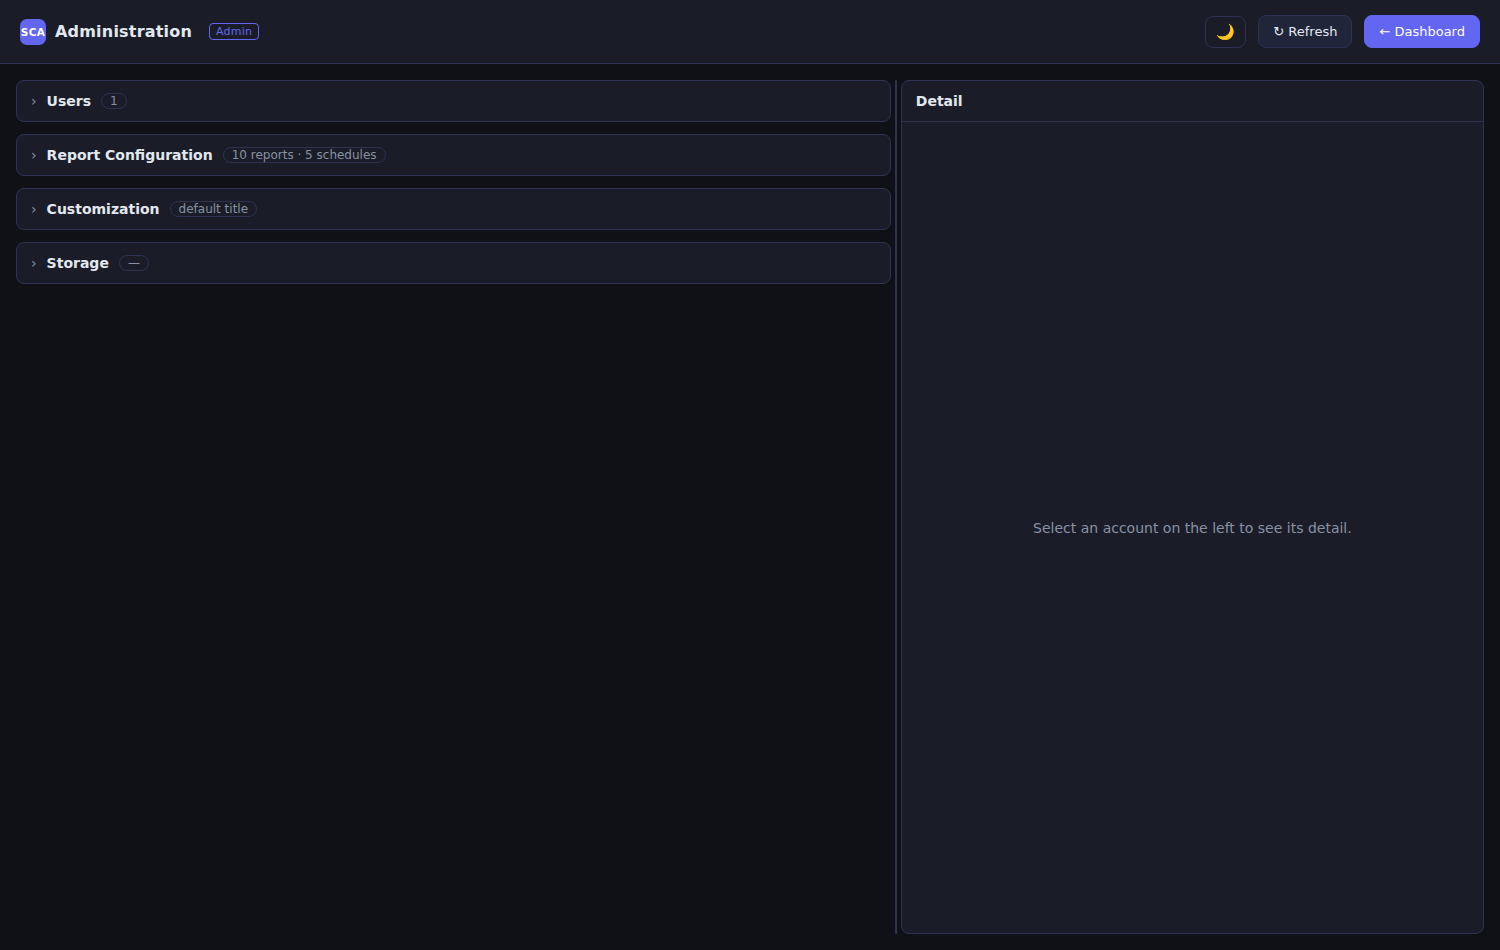
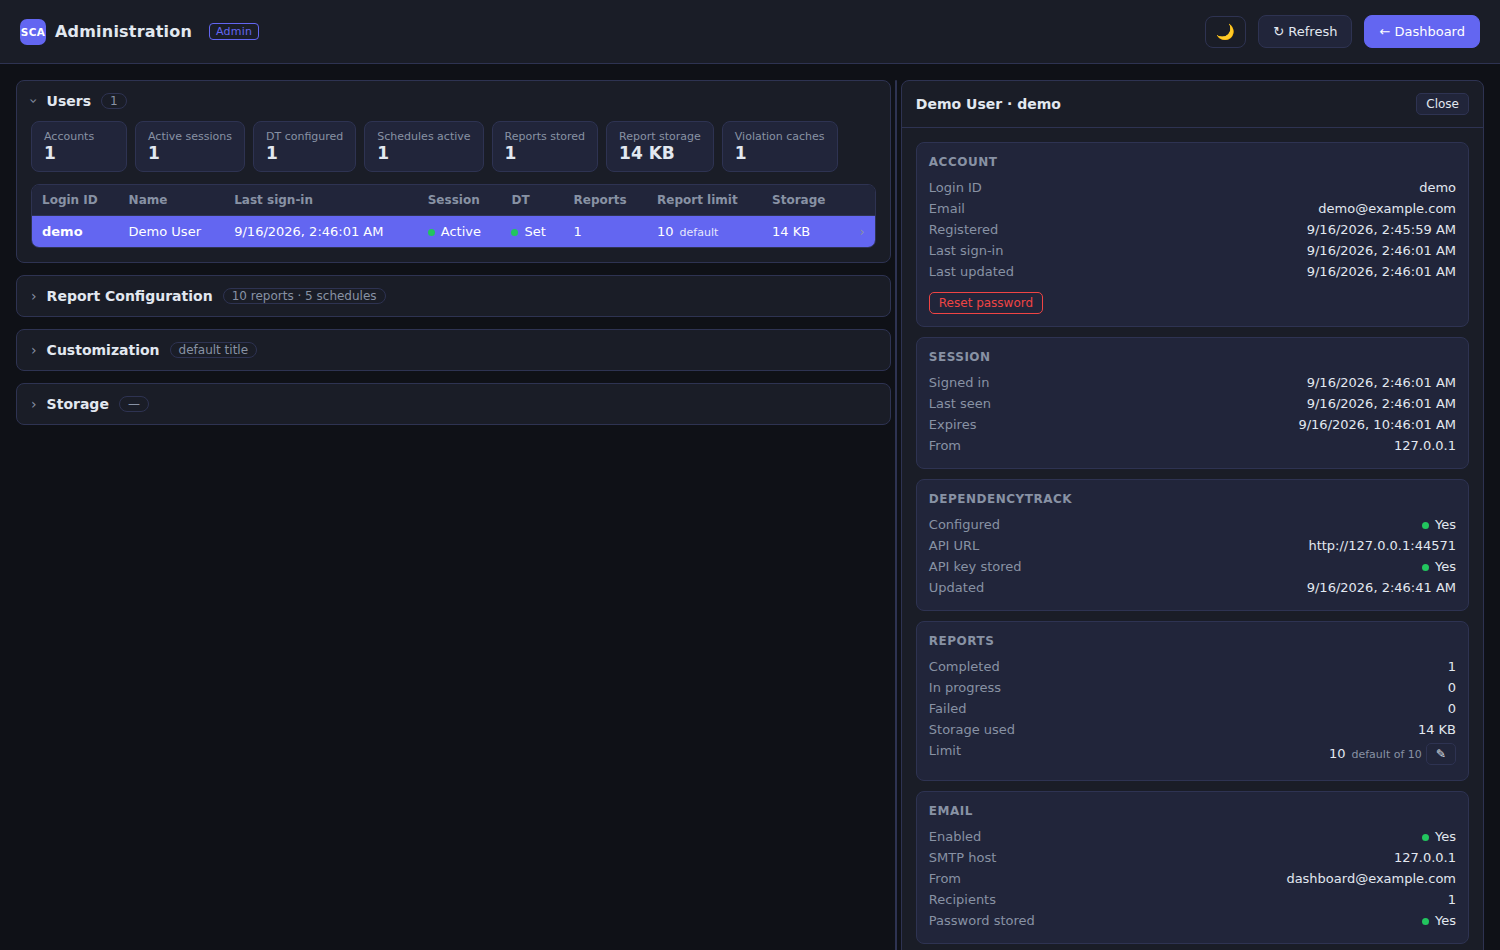
Cover administration in the guide, from both sides of every setting
The administration section was a six-row table and a caution about
password resets. It named what an administrator can change and said
almost nothing about what changing it does — which is the half a reader
actually needs, because an administrator and a user are two different
people and a setting documented from one side leaves both guessing.

Every group of settings now ends with "How this reaches the user": the
report and schedule limits and the exact wording the user sees in their
own Settings, the per-account override and why leaving a field blank is
different from typing the default's current value, what a password reset
does to the session the person is sitting in front of, and that a title
or background change lands on their next page load with no sign-out.

Four screenshots to go with it. The old administration.png photographed
four collapsed bars, which showed the screen exists and nothing else; the
tool now opens each section for its own shot and selects an account so
the detail pane is populated. The reset-password and account-limit
dialogs are captured too — both state their own consequences on screen,
which is worth showing rather than paraphrasing.

Two guards. The administration table is tied to routes/admin.js by count,
so §7.6's closed list of six cannot gain a seventh entry without the
guide gaining a row: a capability that exists in the routes and nowhere
in the guide is one users have no way to ask for. The second requires
[…]

diff --git a/violation-cache/dashboard.test.js b/violation-cache/dashboard.test.js
@@ -5641,6 +5641,43 @@ describe('the documentation still describes this application', () => {
       'the first image should follow the first step, not precede the guide');
   });
 
+  test('the guide documents every administration write, and none it cannot do', () => {
+    // §7.6 is a closed allow-list, and adding a seventh entry is supposed to be
+    // a decision somebody reads. This makes it a decision somebody also has to
+    // *document*: an administrator capability that exists in routes/admin.js
+    // and nowhere in the guide is one users have no way to ask for.
+    const adminRoutes = fs.readFileSync(path.join(__dirname, 'routes', 'admin.js'), 'utf8');
+    const writes = [...adminRoutes.matchAll(/method === '(?:PUT|POST|DELETE)'/g)].length;
+    const section = GUIDE_MD.slice(GUIDE_MD.indexOf('## 11.'), GUIDE_MD.indexOf('## 12.'));
+    assert.ok(section.length > 0, 'the guide has no administration section');
+
+    // The numbered table in the guide is the user-facing copy of that list.
+    const rows = [...section.matchAll(/^\| \d+ \| /gm)].length;
+    assert.equal(rows, writes,
+      `routes/admin.js handles ${writes} writes; the guide's table lists ${rows}`);
+
+    // And each one has to be explained, not merely listed.
+    for (const topic of ['Report Configuration', 'Reset password', 'Customization',
+                         'sign-in background', 'application title']) {
+      assert.match(section, new RegExp(topic.replace(/ /g, '\\s+'), 'i'),
+        `the administration section never covers: ${topic}`);
+    }
+  });
+
+  test('the guide says what an administration change does to a user', () => {
+    // The question this section is actually asked. A setting documented only
+    // from the administrator's side leaves both sides guessing what happened.
+    const section = GUIDE_MD.slice(GUIDE_MD.indexOf('## 11.'), GUIDE_MD.indexOf('## 12.'));
+    const reaches = [...section.matchAll(/How this reaches the user/g)].length;
+    assert.ok(reaches >= 4,
+      `only ${reaches} administration settings say what the user sees; each group needs one`);
+    // The two rules that surprise people most, stated where they will be read.
+    assert.match(section, /never deletes|cannot create more/i,
+      'the guide must say that lowering a limit blocks rather than deletes (§7.5)');
+    assert.match(section, /signed out/i,
+      'the guide must say a password reset signs the account out (S29)');
+  });
+
   test('the guide says where its screenshots come from', () => {
     // The same promise README.md makes. A reader has to be able to tell a
     // fixture from somebody's real portfolio, or they will try to match the

diff --git a/docs/screenshots.js b/docs/screenshots.js
@@ -296,7 +296,48 @@ async function main() {
       await admin.evaluate((t) => localStorage.setItem('dt_session_token', t), adminLogin.json.token);
       await admin.goto(`${stack.url}/admin.html`, { waitUntil: 'networkidle' });
       await admin.waitForTimeout(2500);
+
+      // The sections start collapsed, which photographs as four empty bars. A
+      // guide needs what is inside them, so each one is opened for its own
+      // shot and closed again — the panes are tall enough that two open at
+      // once pushes the second below the fold.
+      // `.acc-head` is the toggle; the section itself is what gets shot, so
+      // each image carries its own heading and nothing above it.
+      const accordion = (id) => admin.locator(`#${id} .acc-head`);
+
+      await accordion('accUsers').click();
+      await admin.waitForTimeout(900);
+      await admin.locator('#usersBody tr').first().click().catch(() => {});
+      await admin.waitForTimeout(1200);
       await shoot(admin, 'administration');
+
+      await admin.locator('#btnEditLimit').click().catch(() => {});
+      await admin.waitForTimeout(800);
+      if (await admin.locator('#limitModal.open').count()) {
+        await shootEl(admin, '#limitModal .modal', 'guide-admin-account-limit');
+        await admin.locator('#limitModal .modal-actions .btn').first().click();
+        await admin.waitForTimeout(500);
+      }
+
+      await admin.locator('#btnResetPw').click().catch(() => {});
+      await admin.waitForTimeout(800);
+      if (await admin.locator('#pwModal.open').count()) {
+        await shootEl(admin, '#pwModal .modal', 'guide-admin-reset');
+        await admin.locator('#pwModal .modal-actions .btn').first().click();
+        await admin.waitForTimeout(500);
+      }
+      await accordion('accUsers').click();
+      await admin.waitForTimeout(700);
+
+      await accordion('accReports').click();
+      await admin.waitForTimeout(900);
+      await shootEl(admin, '#accReports', 'guide-admin-limits');
+      await accordion('accReports').click();
+      await admin.waitForTimeout(700);
+
+      await accordion('accBranding').click();
+      await admin.waitForTimeout(900);
+      await shootEl(admin, '#accBranding', 'guide-admin-branding');
     } else {
       log('  (skipped administration — the credentials file was not available)');
     }

diff --git a/docs/USER_GUIDE.md b/docs/USER_GUIDE.md
@@ -405,33 +405,157 @@ trail survives, as an audit trail must.
 
 ## 11. For administrators
 
-Sign in with **Administrator login** ticked, using the credentials from
-installation. Then **👤 → 🛡 Administration**.
+Sign in with **Administrator login** ticked, using the credentials created at
+installation — they live in a file on the server, not in the account database,
+so no ordinary account can ever become the administrator. Then
+**👤 → 🛡 Administration**.
 
-![The administration screen](images/administration.png)
+An ordinary user who types the `/admin.html` URL is sent back to the dashboard
+rather than shown a screen whose every request would be refused.
 
-Administration is **mostly read-only**. It can do exactly six things:
+### What administration can and cannot do
 
-| Action | Effect |
+**It is mostly read-only, and what it may change is a closed list of six
+things** — not a general-purpose account editor:
+
+| # | Action | Where |
+|---|---|---|
+| 1 | Set the **default** report limit | Report Configuration |
+| 2 | Set the **default** schedule limit | Report Configuration |
+| 3 | Override **one account's** limits | Users → account → ✎ |
+| 4 | Reset **one account's** password | Users → account → Reset password |
+| 5 | Set the application title | Customization |
+| 6 | Upload or remove the sign-in background | Customization |
+
+Everything else is readable only. Administration **cannot** read anyone's
+DependencyTrack API key, SMTP password, reports, findings or schedules' contents.
+It sees only that a key or password *is stored*.
+
+### The Users section
+
+![The administration screen, with one account's detail open](images/administration.png)
+
+The tiles across the top are the whole installation at a glance: accounts,
+active sessions, how many have a DependencyTrack connection, active schedules,
+stored reports, report storage and violation caches.
+
+Selecting an account opens its detail on the right:
+
+| Panel | Shows |
 |---|---|
-| Set the default report and schedule limits | Applies to every account without an override. |
-| Set one account's limits | `null` returns that account to the default. |
-| Reset one account's password | See below. |
-| Set the application title | Blank restores the built-in name. |
-| Upload a sign-in background | |
-| Remove the background | Restores the animated default. |
+| **Account** | Login ID, email, registered / last sign-in / last updated. |
+| **Session** | Whether they are signed in, from which IP, and when the session expires. |
+| **DependencyTrack** | Whether a connection is configured, its **API URL**, and whether a key is stored — **never the key itself**. |
+| **Reports** | Completed / in progress / failed, storage used, and the limit in force. |
+| **Email** | Whether mail is enabled, the SMTP host, the From address, how many recipients — and that a password is stored, **never the password**. |
 
-It can read account names, quotas, storage use and sign-in history. It **cannot**
-read anyone's DependencyTrack key, SMTP password, reports or findings.
+The administrator's own reserved identity is excluded from this list and from
+the account count. It holds their connection and settings, but nothing
+authenticates against it.
 
-> **A password reset is bounded on purpose.** The account is signed out, and the
-> password you set can only ever be spent replacing itself — the user is required
-> to choose a new one before reaching anything else. It never becomes a working
-> credential for their DependencyTrack connection or their reports. Every reset
-> is written to the audit trail.
+### 1–2. The default limits, and what a user sees
 
-Raising a limit never deletes anything. An account already over a lowered limit
-is simply blocked from creating more.
+**Report Configuration** sets the numbers every account follows unless it has an
+override of its own.
+
+![Setting the default report and schedule limits](images/guide-admin-limits.png)
+
+| Setting | Range | What it bounds |
+|---|---|---|
+| **Default maximum reports per account** | 1–1000 | How many generated reports one account may keep on the server at once (completed **and** in progress). |
+| **Default maximum schedules per account** | 1–100 | How many recurring schedules one account may have. |
+
+**How this reaches the user.** Their **⚙ Settings → Max Report Downloads**
+section shows the number in force and reads *"Set by your administrator. Ask
+them if you need it raised."* — they cannot change it there. On the schedule
+side, the schedule list footer reads *"1 of 5 schedules used"*.
+
+When they hit either limit they get a clear refusal, not a silent failure:
+
+- a new report is refused with the limit named, and they are told to download or
+  clear one,
+- a new schedule is refused the same way.
+
+> **Lowering a limit never deletes anything.** An account already over the new
+> number simply cannot create more until it is back under. This is deliberate:
+> the same change applies to every account at once, and a version of it that
+> trimmed would destroy reports across the whole installation in one click.
+
+The schedule limit is not about disk — a schedule costs almost nothing to store.
+It bounds how much **recurring work** the installation sends upstream, because
+each schedule crawls DependencyTrack on its own timetable.
+
+### 3. Overriding one account
+
+In an account's detail, the ✎ beside **Limit** opens:
+
+![Overriding one account's limits](images/guide-admin-account-limit.png)
+
+The dialog states what the account is allowed now and what the defaults are.
+
+**Leaving a field blank returns that limit to the global default** — which is a
+different thing from typing the default's current value. An account set
+explicitly to 10 stays at 10 when you later raise the default to 20; an account
+left blank moves to 20 with everyone else. That distinction is the entire reason
+the field can be emptied.
+
+**How this reaches the user.** Immediately, on their next page load. Their
+Settings panel shows the new number, and the administration list marks the
+account `10 default` or `25` so you can see at a glance which accounts have been
+singled out.
+
+### 4. Resetting a password
+
+Use this when somebody is locked out. Select the account, then **Reset
+password**.
+
+![The password reset dialog](images/guide-admin-reset.png)
+
+**This is the most privileged thing in the product** — you are choosing a value
+that authenticates as somebody else — so three things bound it, and the dialog
+says so:
+
+1. **They are signed out immediately.** Any live session is revoked, so you
+   cannot silently ride along behind them.
+2. **The password you set can only ever be spent replacing itself.** On their
+   next sign-in they are required to choose their own, and until they do, every
+   other part of the product is closed to them. It never becomes a working
+   credential for their DependencyTrack connection or their reports.
+3. **Every reset is written to the audit trail**, in the same transaction as the
+   change itself.
+
+**How this reaches the user.** They are signed out wherever they were. Signing in
+with the password you gave them lands them on a "choose a new password" screen
+and nowhere else. Once they choose one, they continue straight into the
+dashboard — they are not made to sign in twice.
+
+> You cannot reset your **own** administrator password here. It lives in the
+> credentials file on the server, and changing it means changing that file.
+
+### 5–6. Customization
+
+![Setting the title and the sign-in background](images/guide-admin-branding.png)
+
+| Setting | Notes |
+|---|---|
+| **Application title** | Up to 60 characters. **Save title** applies it; **Reset to default** restores the built-in name. |
+| **Sign-in background** | PNG, JPEG or WebP, up to 5 MB, at least 1280×720 and at most 5000×5000. **Upload image** replaces the animated default; removing it restores the animation. |
+
+**How this reaches the user.** The panel says it plainly: *"These apply to
+everyone. A signed-in user sees a change the next time they load a page."* No
+sign-out is needed.
+
+The title appears in the browser tab, the dashboard header, the sign-in page and
+the footer — and the small logo mark is derived from it, up to three initials, so
+a renamed installation does not keep wearing the old name's badge. The
+background is public by construction: it is on the sign-in page, which anyone who
+can reach the service can already see.
+
+### Storage
+
+The **Storage** section reports filesystem headroom and database size for the
+whole installation. It is read-only, and it is where you look before raising the
+default report limit for everybody.
 
 ---
 
@@ -473,7 +597,25 @@ history on the schedule row. History is kept for 90 days.
 
 **Report or schedule limit reached.**
 Download or clear a report; cancel a schedule; or ask your administrator to
-raise the limit.
+raise the limit. Your current limit is shown in **⚙ Settings**; only an
+administrator can change it.
+
+**You are asked to choose a new password as soon as you sign in.**
+An administrator has reset it. Until you choose your own, nothing else in the
+product is reachable — that is deliberate, so the password they typed can never
+become a working credential for your connection or your reports.
+
+**The dashboard has a different name or background than yesterday.**
+An administrator changed it under Customization. It applies to everyone and
+takes effect on your next page load.
+
+**(Administrator) "Administrator login is disabled."**
+The credentials file was never created — usually a stack started without running
+`install.sh`. It is never created silently at runtime; re-run the installer.
+
+**(Administrator) An account is missing from the Users list.**
+The administrator's own reserved identity is excluded by design, from both the
+list and the account count. Nothing authenticates against it.
 
 ---
 

diff --git a/CLAUDE.md b/CLAUDE.md
@@ -2320,7 +2320,17 @@ Running the browser checks in CI was on this list and is now the `e2e` job.
   regenerates into a clean checkout, and then the guide is full of broken
   images; only the second direction would have caught that. `USER_GUIDE.md` is
   also required to keep a section per capability and to say on its own face that
-  its images are stub data — a reader who cannot tell a fixture from a real
+  its images are stub data.
+  **Its administration section is tied to `routes/admin.js` by count**: §7.6 is
+  a closed allow-list of six writes, and adding a seventh is meant to be a
+  decision somebody reads — this makes it a decision somebody also has to
+  *document*, because a capability that exists in the routes and nowhere in the
+  guide is one users have no way to ask for. The section must additionally say,
+  for each group of settings, **what the change does to a user** — a setting
+  documented only from the administrator's side leaves both sides guessing —
+  and must state the two rules that surprise people most: that lowering a limit
+  blocks rather than deletes (§7.5), and that a password reset signs the account
+  out (S29) — a reader who cannot tell a fixture from a real
   portfolio will try to reconcile the numbers with their own and conclude the
   product is broken. These are cheap and they only catch the mechanical half —
   a sentence that is merely wrong still needs a reader.
